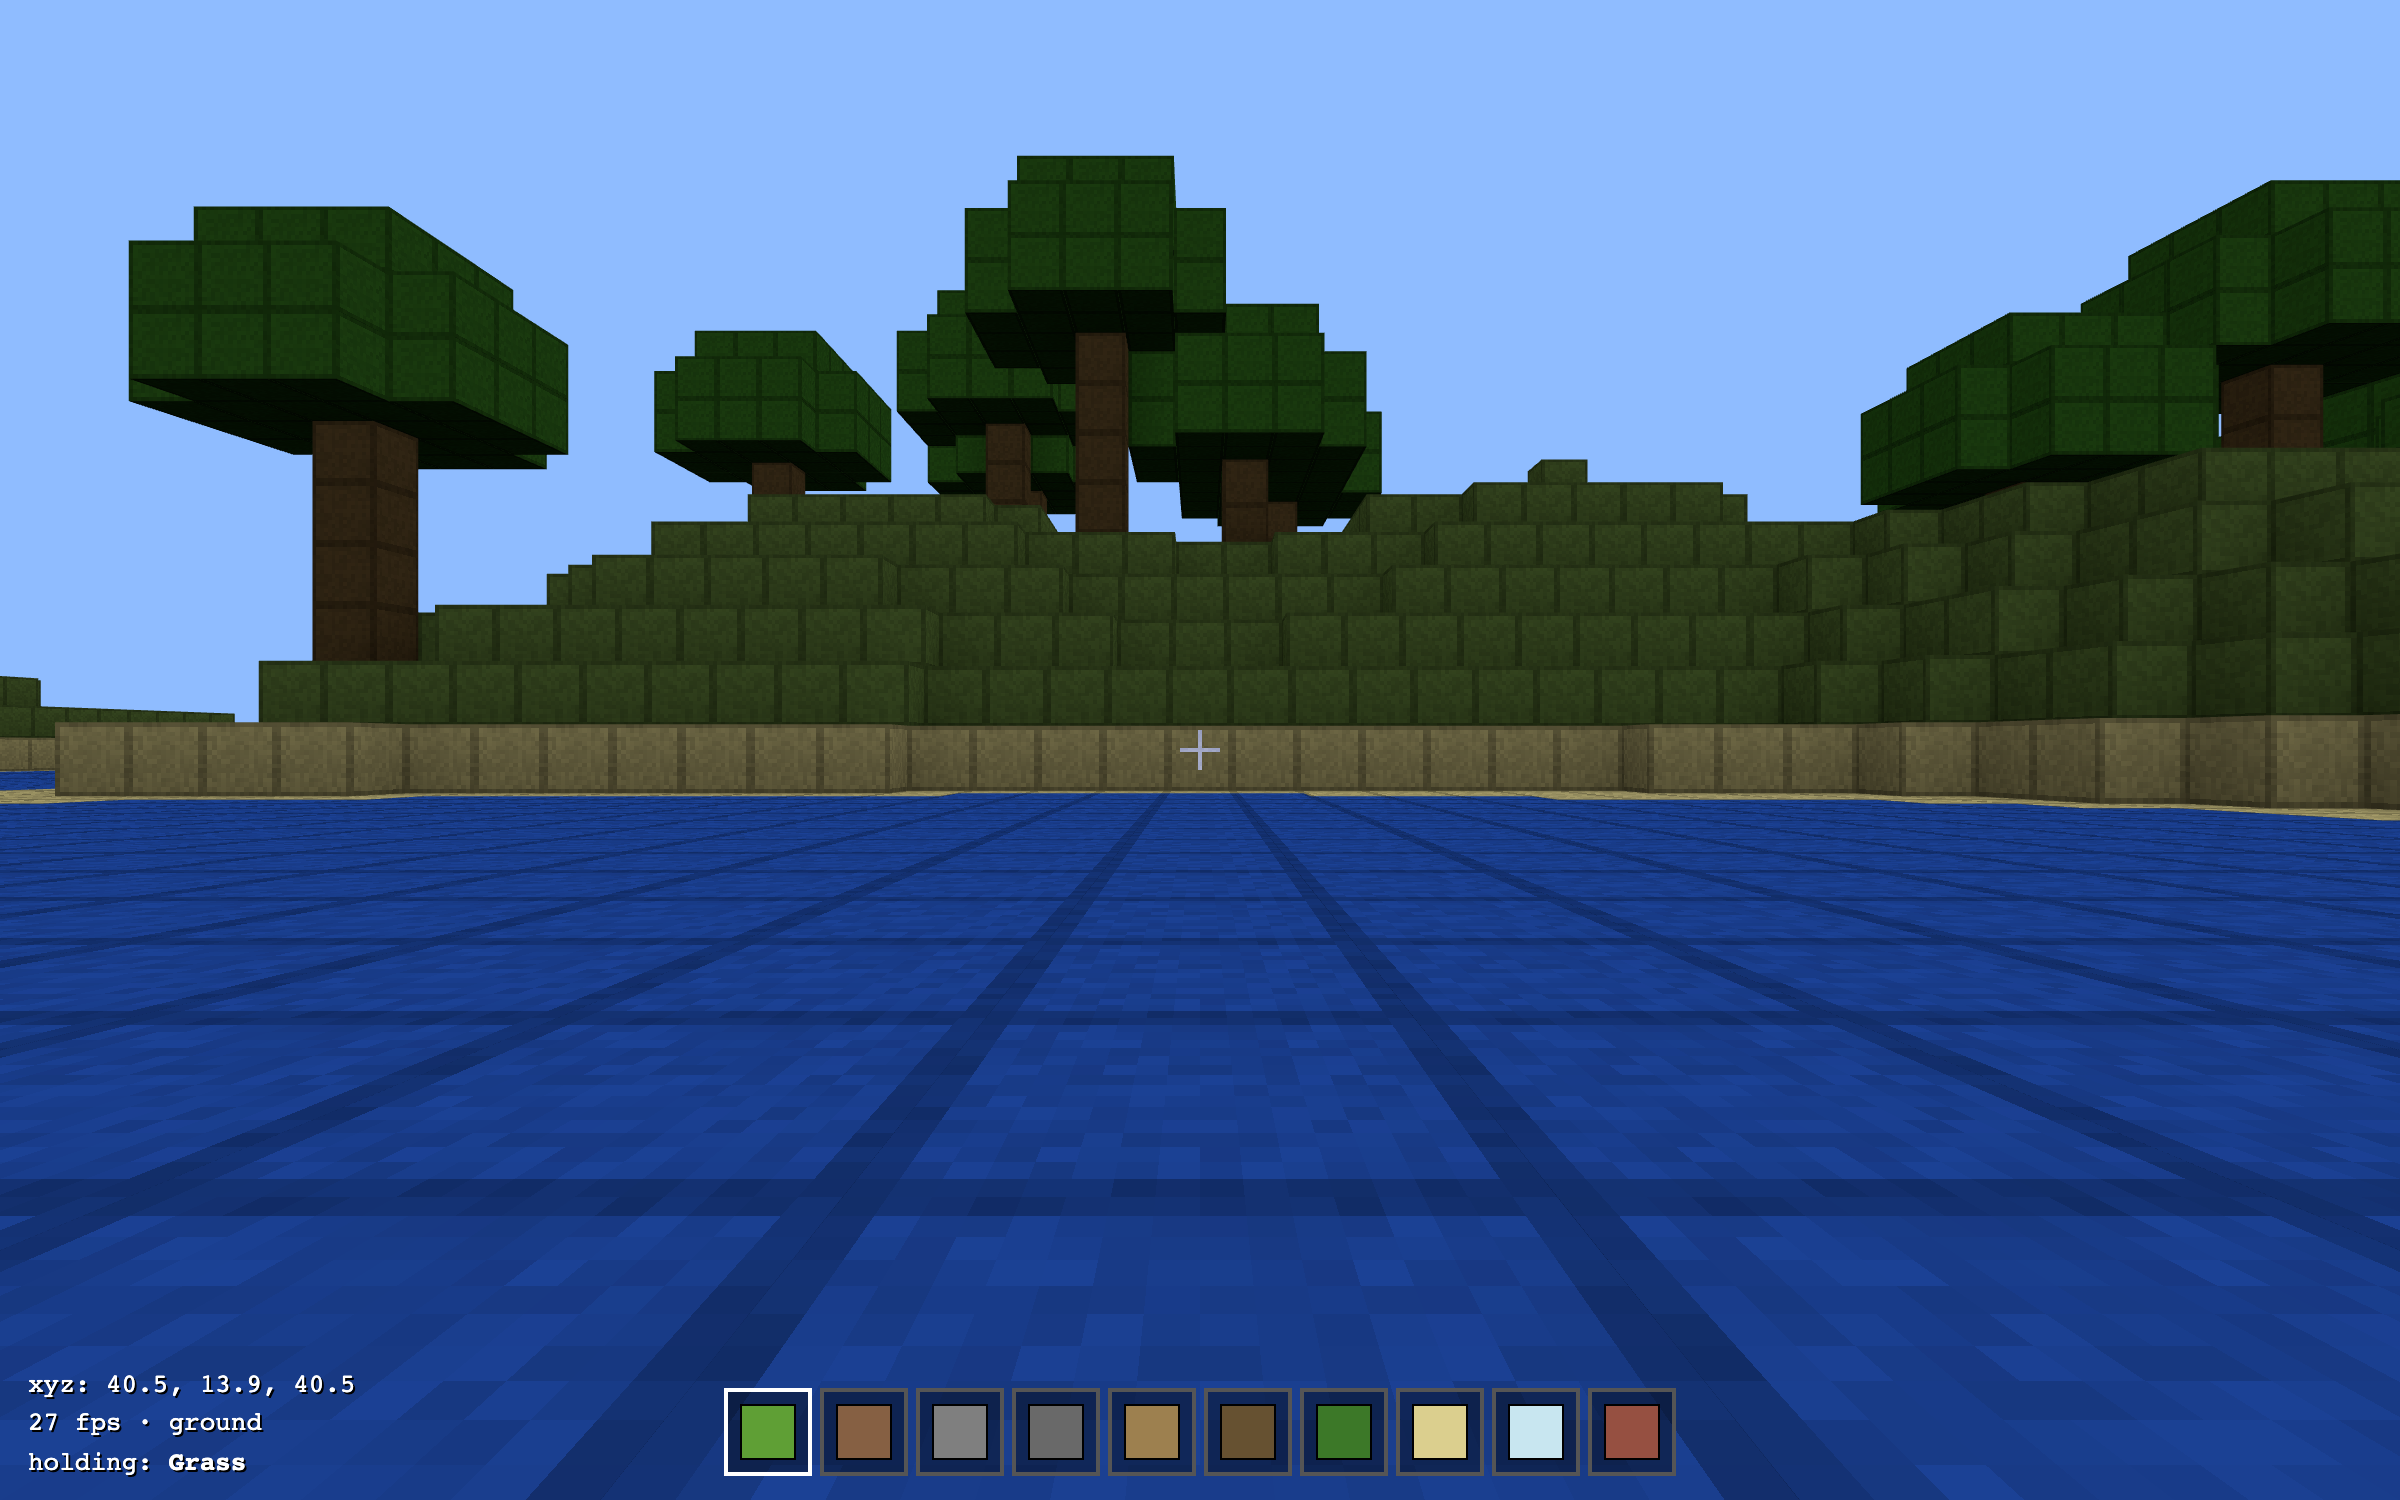
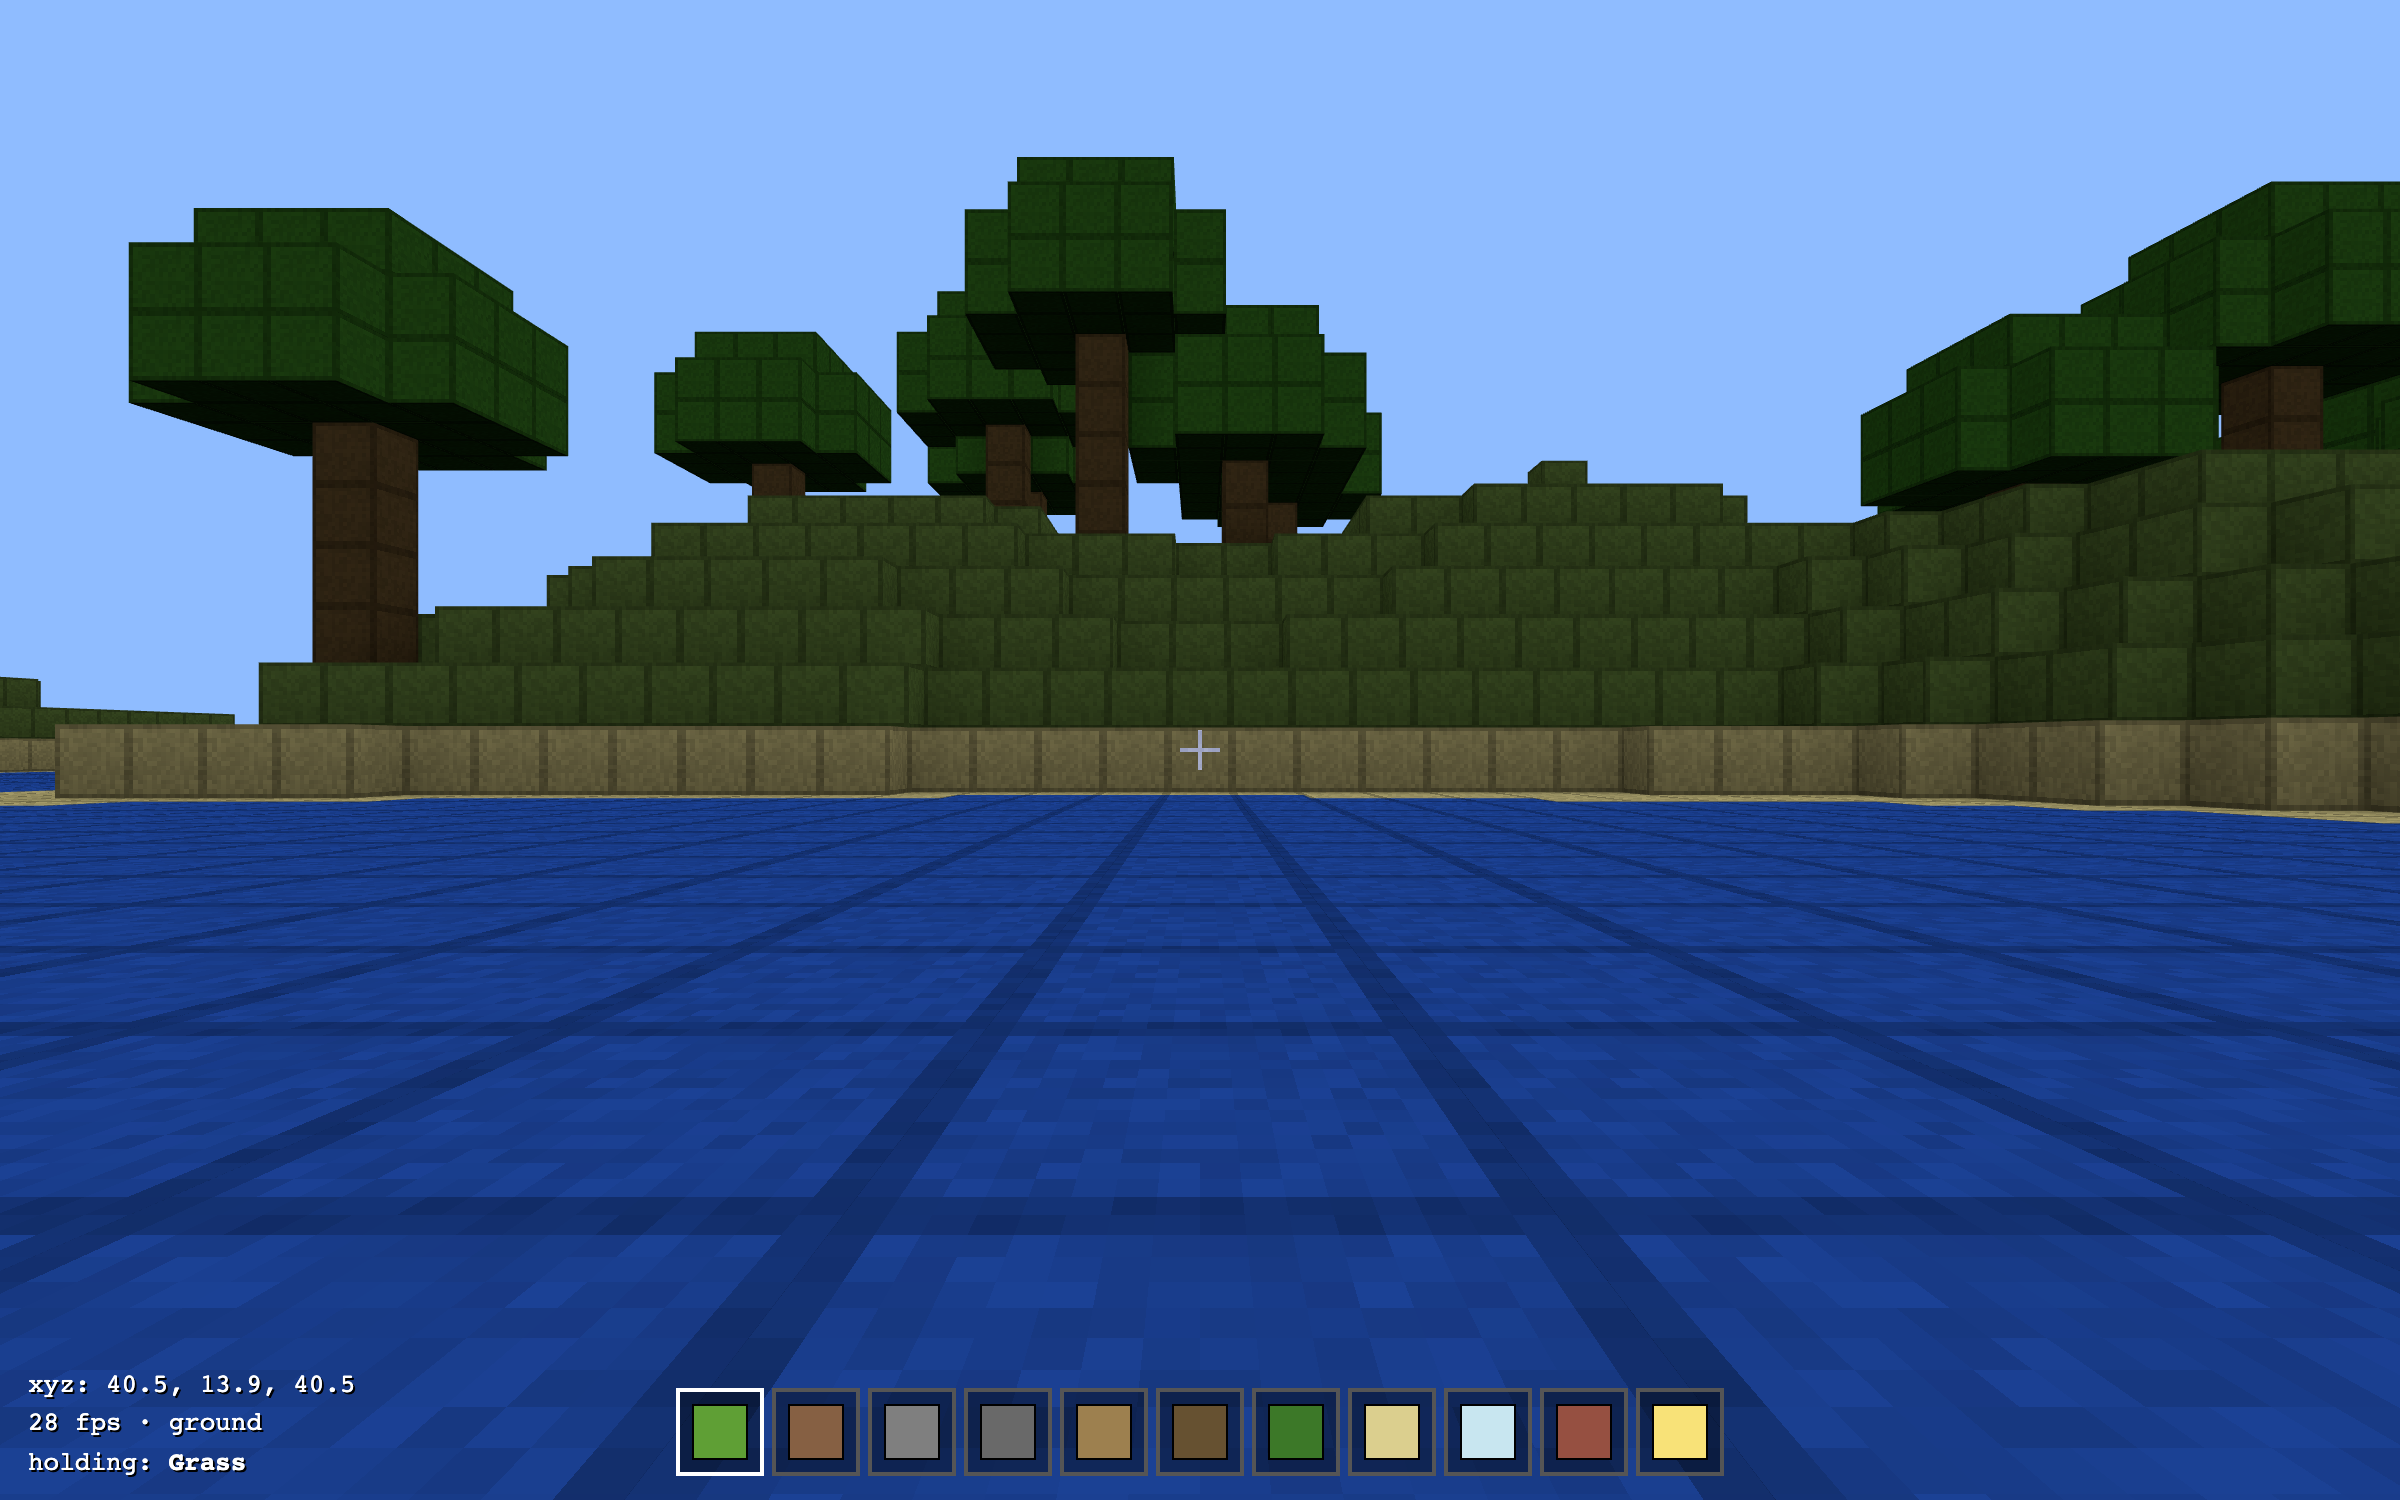
#62 Light-emitting block (Glowstone) — emission field + atlas tile + hotbar (#69)
Adds the first light source so v0.4 block-light propagation (#63) has
something to emit, and lays the data foundation for the milestone.

- blocks.ts: new `Glowstone` block (id 14); `BlockDef` gains an `emission`
  field (0..15) on every block — 0 for all existing, 15 for Glowstone; new
  `emissionOf(id)` accessor; Glowstone added to HOTBAR.
- atlas.ts: `Tile.Glowstone` + `TILE_COLOR` + `BLOCK_TILE` mapping; bump
  TILE_COUNT 15 → 16 (the texture-array layer is painted automatically).
- smoke.mjs: the hotbar check no longer hardcodes 10 slots (the roster is
  pinned by the blocks oracle); it just confirms the hotbar DOM built.

Oracle (blocks.test.ts): the frozen facet census now pins each block's
`emission` (derived by intent, not by reading BLOCKS) — flipping Glowstone's
emission in source fails the census, the same injection proof used for
solid/opaque. Plus an invariant: emission ∈ [0,15] with exactly the light
sources non-zero. The colour golden hash was re-derived independently
(a1091d4b) for the new block.

Verified: 110 oracle tests green; build + smoke pass (11 hotbar slots,
Glowstone placeable, render pixel-identical); docs updated.

🤖 Generated with Claude Code

diff --git a/src/core/blocks.test.ts b/src/core/blocks.test.ts
@@ -1,31 +1,35 @@
 import { describe, test, expect } from "vitest";
-import { Block, BLOCKS, HOTBAR, blockDef, isSolid, isOpaque, isAir } from "./blocks";
+import { Block, BLOCKS, HOTBAR, blockDef, isSolid, isOpaque, isAir, emissionOf } from "./blocks";
 
 /**
  * The block registry is a hand-authored table — a classic silent surface where a
- * single flipped `solid`/`opaque` flag silently breaks physics or face culling
- * with no error. These oracles pin the BEHAVIOURAL facets exactly (census) and
- * freeze the cosmetic data (colours/names) as a golden so any drift is loud.
+ * single flipped `solid`/`opaque`/`emission` value silently breaks physics, face
+ * culling, or lighting with no error. These oracles pin the BEHAVIOURAL facets
+ * exactly (census) and freeze the cosmetic data (colours/names) as a golden so any
+ * drift is loud.
  */
 
-// Frozen contract: [solid, opaque] for every block id. Derived by intent, NOT by
-// reading BLOCKS, so a mutated flag disagrees with this table.
-const FACETS: Record<number, { name: string; solid: boolean; opaque: boolean }> = {
-  [Block.Air]: { name: "Air", solid: false, opaque: false },
-  [Block.Stone]: { name: "Stone", solid: true, opaque: true },
-  [Block.Grass]: { name: "Grass", solid: true, opaque: true },
-  [Block.Dirt]: { name: "Dirt", solid: true, opaque: true },
-  [Block.Cobblestone]: { name: "Cobblestone", solid: true, opaque: true },
-  [Block.Planks]: { name: "Planks", solid: true, opaque: true },
-  [Block.Sand]: { name: "Sand", solid: true, opaque: true },
-  [Block.Gravel]: { name: "Gravel", solid: true, opaque: true },
-  [Block.Log]: { name: "Log", solid: true, opaque: true },
-  [Block.Leaves]: { name: "Leaves", solid: true, opaque: false },
-  [Block.Glass]: { name: "Glass", solid: true, opaque: false },
-  [Block.Brick]: { name: "Brick", solid: true, opaque: true },
-  [Block.Bedrock]: { name: "Bedrock", solid: true, opaque: true },
-  [Block.Water]: { name: "Water", solid: false, opaque: false },
-};
+// Frozen contract: {name, solid, opaque, emission} for every block id. Derived by
+// intent, NOT by reading BLOCKS, so a mutated value disagrees with this table.
+// emission is 0 for every block except light sources (Glowstone = 15).
+const FACETS: Record<number, { name: string; solid: boolean; opaque: boolean; emission: number }> =
+  {
+    [Block.Air]: { name: "Air", solid: false, opaque: false, emission: 0 },
+    [Block.Stone]: { name: "Stone", solid: true, opaque: true, emission: 0 },
+    [Block.Grass]: { name: "Grass", solid: true, opaque: true, emission: 0 },
+    [Block.Dirt]: { name: "Dirt", solid: true, opaque: true, emission: 0 },
+    [Block.Cobblestone]: { name: "Cobblestone", solid: true, opaque: true, emission: 0 },
+    [Block.Planks]: { name: "Planks", solid: true, opaque: true, emission: 0 },
+    [Block.Sand]: { name: "Sand", solid: true, opaque: true, emission: 0 },
+    [Block.Gravel]: { name: "Gravel", solid: true, opaque: true, emission: 0 },
+    [Block.Log]: { name: "Log", solid: true, opaque: true, emission: 0 },
+    [Block.Leaves]: { name: "Leaves", solid: true, opaque: false, emission: 0 },
+    [Block.Glass]: { name: "Glass", solid: true, opaque: false, emission: 0 },
+    [Block.Brick]: { name: "Brick", solid: true, opaque: true, emission: 0 },
+    [Block.Bedrock]: { name: "Bedrock", solid: true, opaque: true, emission: 0 },
+    [Block.Water]: { name: "Water", solid: false, opaque: false, emission: 0 },
+    [Block.Glowstone]: { name: "Glowstone", solid: true, opaque: true, emission: 15 },
+  };
 
 describe("blocks oracle", () => {
   // CENSUS: every defined block matches the frozen facet contract, exactly.
@@ -35,13 +39,32 @@ describe("blocks oracle", () => {
     expect(new Set(Object.keys(BLOCKS).map(Number))).toEqual(new Set(ids));
     for (const id of ids) {
       const want = FACETS[id];
-      expect({ name: BLOCKS[id].name, solid: BLOCKS[id].solid, opaque: BLOCKS[id].opaque }).toEqual(
-        want,
-      );
+      expect({
+        name: BLOCKS[id].name,
+        solid: BLOCKS[id].solid,
+        opaque: BLOCKS[id].opaque,
+        emission: BLOCKS[id].emission,
+      }).toEqual(want);
       // the accessor helpers agree with the table
       expect(isSolid(id)).toBe(want.solid);
       expect(isOpaque(id)).toBe(want.opaque);
+      expect(emissionOf(id)).toBe(want.emission);
     }
+  });
+
+  // INVARIANT: emission is a level in [0, 15]; exactly the light sources emit (> 0).
+  test("emission is bounded 0..15 and only light sources emit", () => {
+    let emitters = 0;
+    for (const id of Object.values(Block)) {
+      const e = emissionOf(id);
+      expect(Number.isInteger(e)).toBe(true);
+      expect(e).toBeGreaterThanOrEqual(0);
+      expect(e).toBeLessThanOrEqual(15);
+      if (e > 0) emitters++;
+    }
+    expect(emissionOf(Block.Glowstone)).toBe(15); // the one light source so far
+    expect(emitters).toBe(1);
+    expect(emissionOf(9999)).toBe(0); // unknown ids fall back to Air → no light
   });
 
   // INVARIANT: opaque ⇒ solid for every block (a see-through solid is fine, but an
@@ -62,7 +85,7 @@ describe("blocks oracle", () => {
         h = Math.imul(h, 0x01000193);
       }
     }
-    expect((h >>> 0).toString(16)).toBe("adadacab");
+    expect((h >>> 0).toString(16)).toBe("a1091d4b");
   });
 
   // TOTALITY: unknown ids fall back to Air rather than throwing or returning undefined.

diff --git a/src/core/blocks.ts b/src/core/blocks.ts
@@ -28,6 +28,7 @@ export const Block = {
   Brick: 11,
   Bedrock: 12,
   Water: 13,
+  Glowstone: 14,
 } as const;
 
 export type BlockKey = keyof typeof Block;
@@ -39,6 +40,8 @@ export interface BlockDef {
   readonly solid: boolean;
   /** Fully hides the touching face of an adjacent block (used for face culling). */
   readonly opaque: boolean;
+  /** Light this block emits, `0` (none) … `15` (full). Drives block-light propagation. */
+  readonly emission: number;
   /** Base colour as [r, g, b] in 0..1. */
   readonly color: readonly [number, number, number];
 }
@@ -47,14 +50,25 @@ function rgb(r: number, g: number, b: number): readonly [number, number, number]
   return [r / 255, g / 255, b / 255];
 }
 
-/** Definitions indexed by block id. `BLOCKS[id]` is total over all defined ids. */
+/**
+ * Definitions indexed by block id. `BLOCKS[id]` is total over all defined ids.
+ * `emission` is `0` for every block except light sources (Glowstone).
+ */
 export const BLOCKS: Readonly<Record<BlockId, BlockDef>> = {
-  [Block.Air]: { id: Block.Air, name: "Air", solid: false, opaque: false, color: rgb(0, 0, 0) },
+  [Block.Air]: {
+    id: Block.Air,
+    name: "Air",
+    solid: false,
+    opaque: false,
+    emission: 0,
+    color: rgb(0, 0, 0),
+  },
   [Block.Stone]: {
     id: Block.Stone,
     name: "Stone",
     solid: true,
     opaque: true,
+    emission: 0,
     color: rgb(127, 127, 127),
   },
   [Block.Grass]: {
@@ -62,6 +76,7 @@ export const BLOCKS: Readonly<Record<BlockId, BlockDef>> = {
     name: "Grass",
     solid: true,
     opaque: true,
+    emission: 0,
     color: rgb(95, 159, 53),
   },
   [Block.Dirt]: {
@@ -69,6 +84,7 @@ export const BLOCKS: Readonly<Record<BlockId, BlockDef>> = {
     name: "Dirt",
     solid: true,
     opaque: true,
+    emission: 0,
     color: rgb(134, 96, 67),
   },
   [Block.Cobblestone]: {
@@ -76,6 +92,7 @@ export const BLOCKS: Readonly<Record<BlockId, BlockDef>> = {
     name: "Cobblestone",
     solid: true,
     opaque: true,
+    emission: 0,
     color: rgb(105, 105, 105),
   },
   [Block.Planks]: {
@@ -83,6 +100,7 @@ export const BLOCKS: Readonly<Record<BlockId, BlockDef>> = {
     name: "Planks",
     solid: true,
     opaque: true,
+    emission: 0,
     color: rgb(157, 128, 79),
   },
   [Block.Sand]: {
@@ -90,6 +108,7 @@ export const BLOCKS: Readonly<Record<BlockId, BlockDef>> = {
     name: "Sand",
     solid: true,
     opaque: true,
+    emission: 0,
     color: rgb(219, 207, 142),
   },
   [Block.Gravel]: {
@@ -97,14 +116,23 @@ export const BLOCKS: Readonly<Record<BlockId, BlockDef>> = {
     name: "Gravel",
     solid: true,
     opaque: true,
+    emission: 0,
     color: rgb(136, 126, 125),
   },
-  [Block.Log]: { id: Block.Log, name: "Log", solid: true, opaque: true, color: rgb(102, 81, 49) },
+  [Block.Log]: {
+    id: Block.Log,
+    name: "Log",
+    solid: true,
+    opaque: true,
+    emission: 0,
+    color: rgb(102, 81, 49),
+  },
   [Block.Leaves]: {
     id: Block.Leaves,
     name: "Leaves",
     solid: true,
     opaque: false,
+    emission: 0,
     color: rgb(60, 120, 40),
   },
   [Block.Glass]: {
@@ -112,6 +140,7 @@ export const BLOCKS: Readonly<Record<BlockId, BlockDef>> = {
     name: "Glass",
     solid: true,
     opaque: false,
+    emission: 0,
     color: rgb(200, 230, 240),
   },
   [Block.Brick]: {
@@ -119,6 +148,7 @@ export const BLOCKS: Readonly<Record<BlockId, BlockDef>> = {
     name: "Brick",
     solid: true,
     opaque: true,
+    emission: 0,
     color: rgb(150, 80, 65),
   },
   [Block.Bedrock]: {
@@ -126,6 +156,7 @@ export const BLOCKS: Readonly<Record<BlockId, BlockDef>> = {
     name: "Bedrock",
     solid: true,
     opaque: true,
+    emission: 0,
     color: rgb(40, 40, 40),
   },
   [Block.Water]: {
@@ -133,7 +164,16 @@ export const BLOCKS: Readonly<Record<BlockId, BlockDef>> = {
     name: "Water",
     solid: false,
     opaque: false,
+    emission: 0,
     color: rgb(40, 90, 200),
+  },
+  [Block.Glowstone]: {
+    id: Block.Glowstone,
+    name: "Glowstone",
+    solid: true,
+    opaque: true,
+    emission: 15,
+    color: rgb(248, 226, 120),
   },
 };
 
@@ -149,6 +189,7 @@ export const HOTBAR: readonly BlockId[] = [
   Block.Sand,
   Block.Glass,
   Block.Brick,
+  Block.Glowstone,
 ];
 
 export function blockDef(id: BlockId): BlockDef {
@@ -161,6 +202,11 @@ export function isSolid(id: BlockId): boolean {
 
 export function isOpaque(id: BlockId): boolean {
   return blockDef(id).opaque;
+}
+
+/** Light level this block emits, `0`…`15` (`0` for everything but light sources). */
+export function emissionOf(id: BlockId): number {
+  return blockDef(id).emission;
 }
 
 export function isAir(id: BlockId): boolean {

diff --git a/src/core/atlas.ts b/src/core/atlas.ts
@@ -28,12 +28,13 @@ export const Tile = {
   Brick: 12,
   Bedrock: 13,
   Water: 14,
+  Glowstone: 15,
 } as const;
 
 export type TileIndex = (typeof Tile)[keyof typeof Tile];
 
 /** Number of tiles (= texture-array layers). */
-export const TILE_COUNT = 15;
+export const TILE_COUNT = 16;
 
 function rgb(r: number, g: number, b: number): readonly [number, number, number] {
   return [r / 255, g / 255, b / 255];
@@ -60,6 +61,7 @@ export const TILE_COLOR: Readonly<Record<TileIndex, readonly [number, number, nu
   [Tile.Brick]: rgb(150, 80, 65),
   [Tile.Bedrock]: rgb(40, 40, 40),
   [Tile.Water]: rgb(40, 90, 200),
+  [Tile.Glowstone]: rgb(248, 226, 120),
 };
 
 /** One tile per simple block; grass and log are overridden per-face below. */
@@ -77,6 +79,7 @@ const BLOCK_TILE: Readonly<Record<BlockId, TileIndex>> = {
   [Block.Brick]: Tile.Brick,
   [Block.Bedrock]: Tile.Bedrock,
   [Block.Water]: Tile.Water,
+  [Block.Glowstone]: Tile.Glowstone,
 };
 
 // Face indices match mesher's FACES order: 0=+X, 1=−X, 2=+Y, 3=−Y, 4=+Z, 5=−Z.

diff --git a/docs/EXTENDING.md b/docs/EXTENDING.md
@@ -8,7 +8,7 @@ run `npm test` then `npm run mutation`.
 
 1. **Register it** in `src/core/blocks.ts`:
    ```ts
-   export const Block = { /* ...existing... */ Water: 13, Snow: 14 } as const;
+   export const Block = { /* ...existing... */ Glowstone: 14, Snow: 15 } as const;
 
    export const BLOCKS = {
      // ...existing...
@@ -17,6 +17,7 @@ run `npm test` then `npm run mutation`.
        name: "Snow",
        solid: true,
        opaque: true,
+       emission: 0, // 0..15 — only light sources emit (e.g. Glowstone is 15)
        color: rgb(245, 245, 250),
      },
    };
@@ -24,15 +25,18 @@ run `npm test` then `npm run mutation`.
    Keep ids **contiguous from 0** (the world is a `Uint8Array`).
 2. **Make it placeable** by adding it to `HOTBAR` (omit if it should be terrain-only).
 3. **Update the oracles** in `src/core/blocks.test.ts`:
-   - add the block to the `FACETS` census table (`{ name, solid, opaque }`), and
-   - the colour golden hash will change — run the test, copy the new `Received` hash into the
-     `expect(...).toBe(...)`. (Re-pinning a golden after an intentional change is the normal
-     workflow.)
+   - add the block to the `FACETS` census table (`{ name, solid, opaque, emission }`), and
+   - the colour golden hash will change — **re-derive** it (the same FNV walk over the intended
+     colours, independent of `BLOCKS`) and paste it into the `expect(...).toBe(...)`. Re-pinning
+     a golden after an intentional change is the normal workflow.
 4. `npm test`. The facet census will fail until step 3 is done — that's the oracle doing its
    job.
+5. **Add its atlas tile** (see _Textures_ below): a `Tile` slot + `TILE_COLOR` + `BLOCK_TILE`
+   entry, and bump `TILE_COUNT`.
 
 **Facet meaning:** `solid` → the player collides with it; `opaque` → it hides the touching
-face of neighbours (set `false` for anything see-through like glass/leaves/water).
+face of neighbours (set `false` for anything see-through like glass/leaves/water); `emission` →
+light level `0..15` it radiates (drives block-light propagation).
 
 ## Use it in terrain
 

diff --git a/docs/API.md b/docs/API.md
@@ -45,6 +45,7 @@ interface BlockDef {
   name: string;
   solid: boolean;    // player collides with it (air, water are not solid)
   opaque: boolean;   // fully hides the touching neighbour face (glass/leaves/water do not)
+  emission: number;  // light it radiates, 0..15 (0 for all but light sources, e.g. Glowstone 15)
   color: readonly [number, number, number];   // r,g,b in 0..1
 }
 
@@ -54,14 +55,17 @@ const HOTBAR: readonly BlockId[]                    // placeable blocks, exclude
 blockDef(id: BlockId): BlockDef    // unknown id → the Air definition (total, never throws)
 isSolid(id: BlockId): boolean
 isOpaque(id: BlockId): boolean
+emissionOf(id: BlockId): number    // light level 0..15 (unknown id → 0)
 isAir(id: BlockId): boolean
 ```
 
-`solid` and `opaque` are the two behavioural facets. **`opaque ⇒ solid`** for every block
-(a see-through solid like glass is fine; an opaque non-solid would be a contradiction).
+`solid`, `opaque`, and `emission` are the behavioural facets. **`opaque ⇒ solid`** for every
+block (a see-through solid like glass is fine; an opaque non-solid would be a contradiction).
+`emission` seeds block-light propagation (v0.4); only light sources are non-zero.
 
-> Invariants: a frozen census pins every block's `{solid, opaque, name}`; a golden hash
-> freezes all colours; `blockDef` is total.
+> Invariants: a frozen census pins every block's `{solid, opaque, name, emission}`; `emission`
+> is bounded `0..15` with exactly the light sources non-zero; a golden hash freezes all colours;
+> `blockDef` is total.
 
 ---
 
@@ -206,7 +210,7 @@ n·size`); `chunksAffectedByEdit` reports every chunk an edit can change.
 ## `core/atlas.ts`
 
 ```ts
-const TILE_COUNT = 15
+const TILE_COUNT = 16
 const Tile = { Stone, GrassTop, GrassSide, Dirt, ... }   // tile slots = texture-array layers
 TILE_COLOR: Record<TileIndex, [r,g,b]>                    // base colour per tile (static)
 tileIndexFor(id: BlockId, faceIndex: number): TileIndex   // per-face tile (= layer) choice